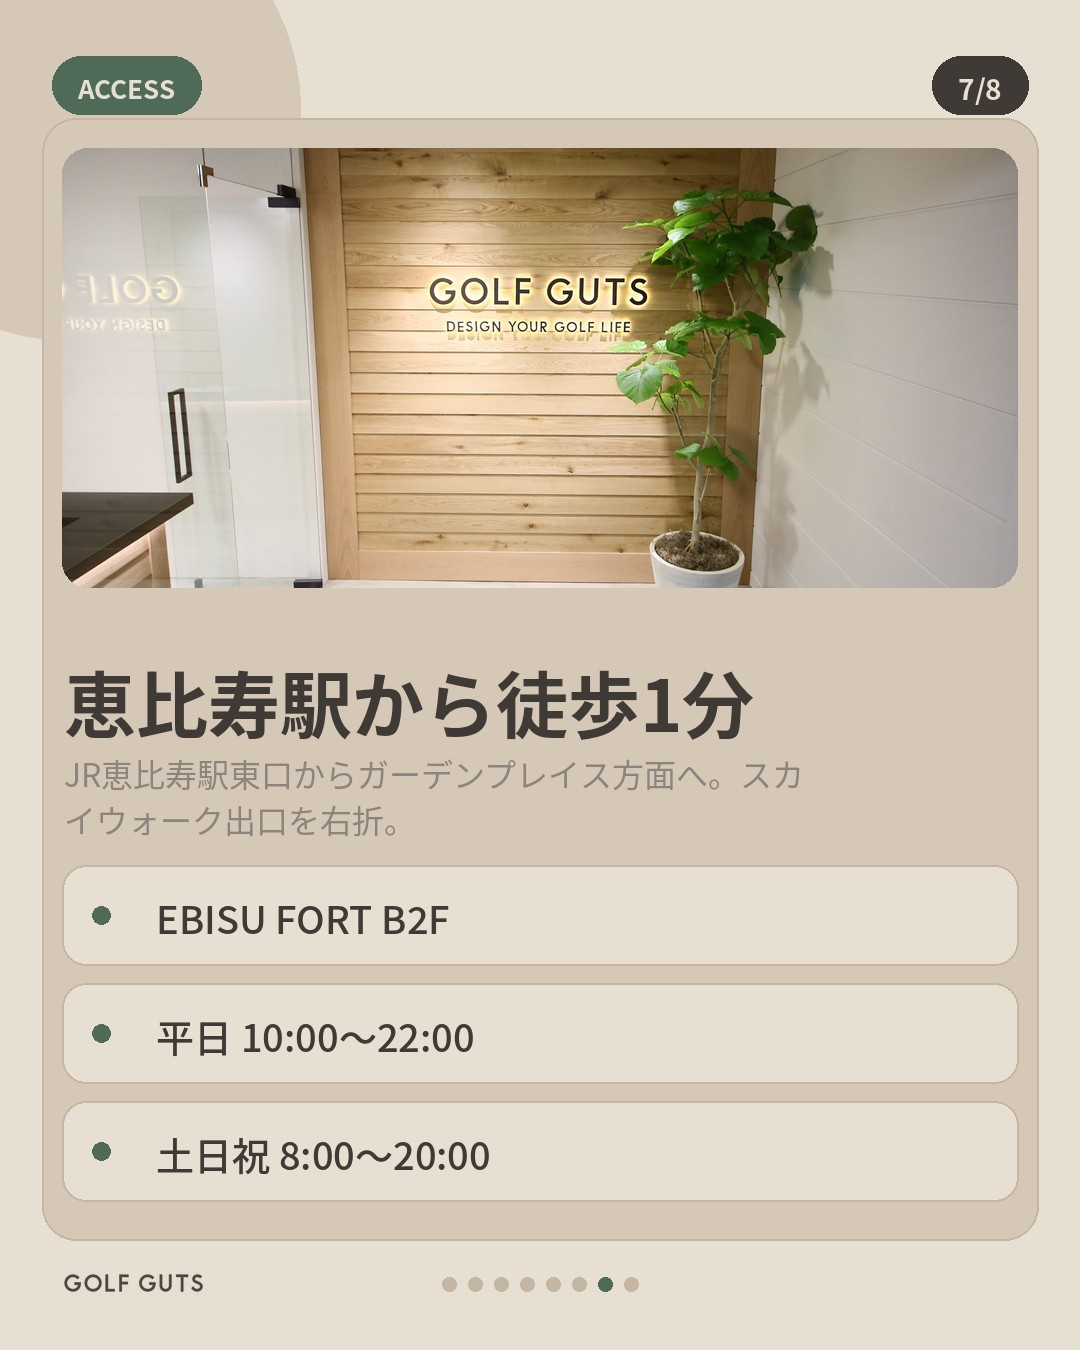
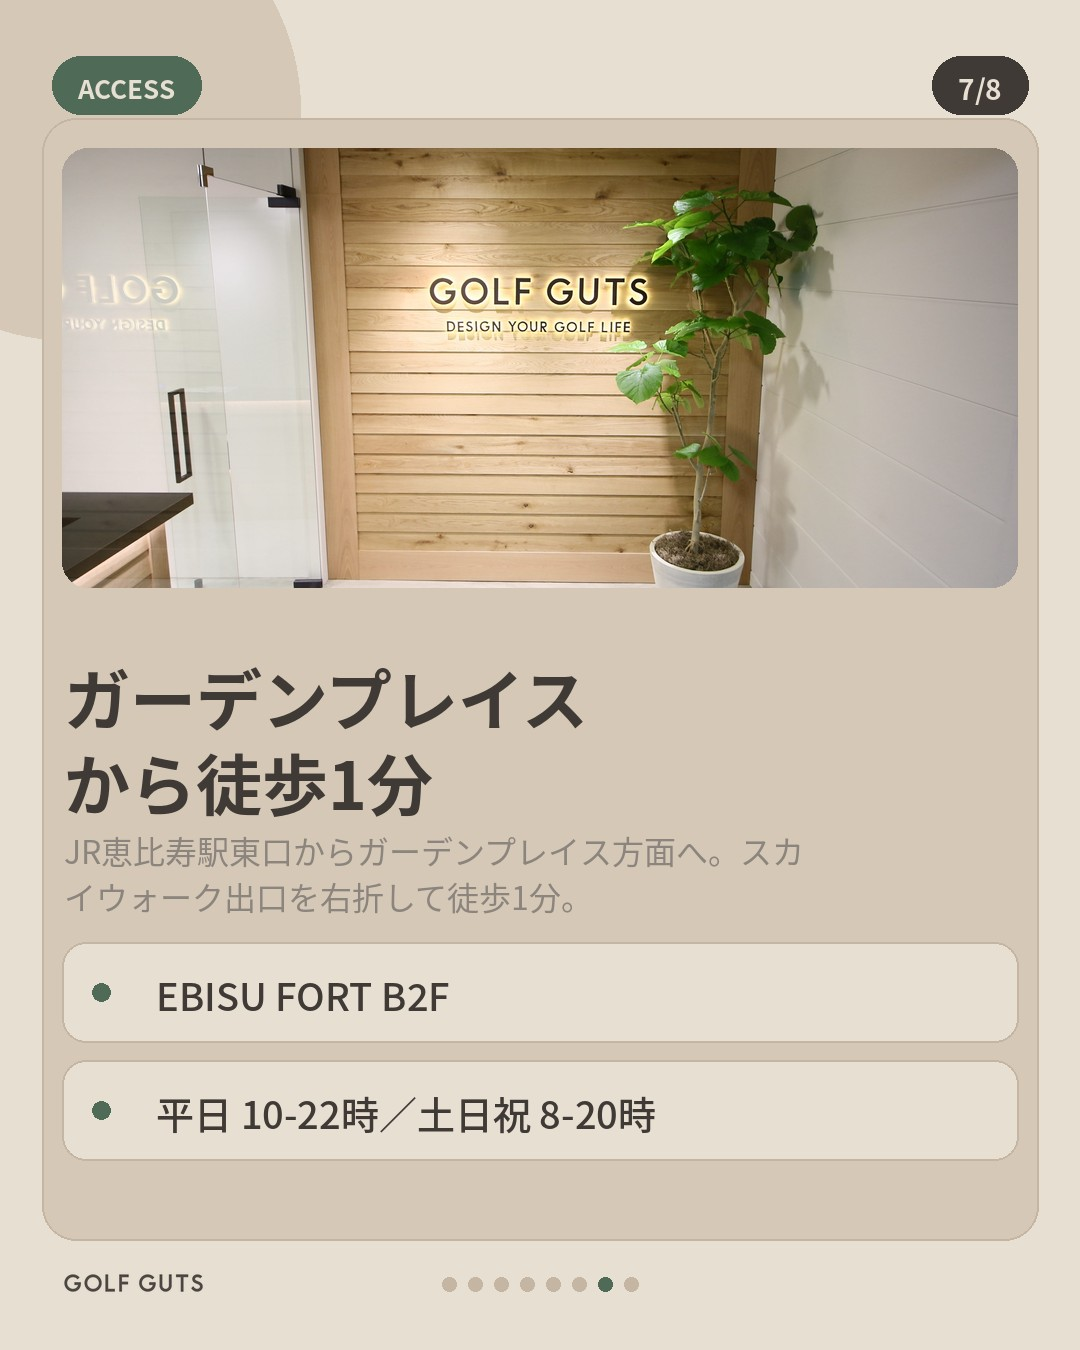
access wording: Garden Place basis; regenerate W4 access slide; record profile copy
Claude-Session: https://claude.ai/code/session_01PYpmDyjPeMWw7oSziVxqdv

Changed region(s): [[0.0611, 0.4978, 0.9472, 0.9022], [0.7028, 0.56, 0.7333, 0.5911]]

diff --git a/CLAUDE.md b/CLAUDE.md
@@ -30,7 +30,7 @@
 | 業態 | 恵比寿のインドアゴルフスクール（完全個室マンツーマン） |
 | 住所 | 〒150-0022 東京都渋谷区恵比寿南1-24-2 EBISU FORT B2F |
 | 電話 | 03-6452-2349 |
-| 道案内 | JR恵比寿駅東口からガーデンプレイス方面へ。スカイウォーク出口を右折して徒歩1分。 |
+| 道案内 | JR恵比寿駅東口からガーデンプレイス方面へ。スカイウォーク出口を右折して徒歩1分。**短い表記は「恵比寿ガーデンプレイス 徒歩1分」。「恵比寿駅 徒歩1分」は使わない（2026-10-20 依頼者指摘：駅改札からはスカイウォークを歩く分がある）** |
 | 営業時間 | 平日10:00〜22:00／土日祝8:00〜20:00（公式サイト掲載値。公開前に最新を照合） |
 | 公式サイト | https://golf-guts.co.jp |
 | Instagram | https://www.instagram.com/golfguts/ |
@@ -69,6 +69,16 @@
 - 電話予約・相談は補助導線：03-6452-2349
 - 既存の初回案内記事：WordPress投稿ID 7632「初回スイングdockのご案内｜料金・当日の流れ・持ち物・予約方法」
 - 既存LP：https://golf-guts.co.jp/swingdock/（WordPress固定ページID 842）
+
+### Instagramプロフィール（確定 2026-10-20）
+- 名前欄：ゴルフガッツ｜東京都恵比寿（既存のまま）
+- 自己紹介文（絵文字なし。場所は名前欄にあるため本文に入れない。「全米No.1」は根拠を示せないため削除。「全英オープン出場」「全コーチ東北福祉大学出身」は依頼者の既存記載＝要確認扱い）：
+  > 完全個室マンツーマン（または「完全個室のマンツーマンゴルフレッスン」）
+  > 映像解析×弾道測定で「何から直すか」を整理
+  > 全英オープン出場プロコーチ／全コーチ東北福祉大学出身
+  > まずは、初回スイングdock（60分）
+  > ▼ ご予約・詳細はこちら
+- 「全米No.1」の背景：2017年 GOLFTEC 在籍時のレッスン数1位（堀コーチ個人の実績、依頼者申告）。個人実績になるためプロフィールには載せない（依頼者決定）。投稿で使う場合も「GOLFTEC内」「2017年」「個人」が分かる書き方に限る
 
 ### 表記ルール
 

diff --git a/sns/sns_drafts_week3-4.md b/sns/sns_drafts_week3-4.md
@@ -208,7 +208,7 @@
 | 7 | コーチは選べる？ | ご希望があれば予約時にお伝えください。日時はコーチと打席の空きによります |
 | 8 | 支払いは？ | 当日、受付で現金またはクレジットカード（一括） |
 | 9 | 予約はどうやって？ | プロフィールのリンク→予約画面で「会員登録せずに予約」。電話でも可 03-6452-2349 |
-| 10 | 料金・CTA | 8,800円（税込）／目安60分／恵比寿駅 徒歩1分 |
+| 10 | 料金・CTA | 8,800円（税込）／目安60分／恵比寿ガーデンプレイス 徒歩1分 |
 
 【必要素材】線画・文字デザインのみ
 【要確認】なし（変更・キャンセル条件は未確認のため含めない）

diff --git a/sns/sns_plan_2026-10.md b/sns/sns_plan_2026-10.md
@@ -28,7 +28,7 @@
 > GOLF GUTS｜恵比寿 ゴルフレッスン
 
 **自己紹介文**（150字制限内。改行込み）
-> 恵比寿駅 徒歩1分｜完全個室マンツーマン
+> ガーデンプレイス 徒歩1分｜完全個室マンツーマン
 > 練習しても同じミスが続く方へ
 > スイング映像と弾道データで「何から直すか」を整理
 > 初回スイングdock｜目安60分｜8,800円（税込）
